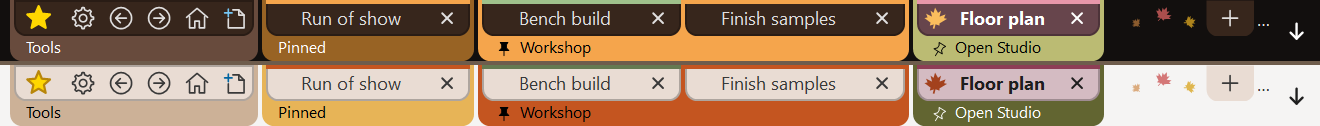
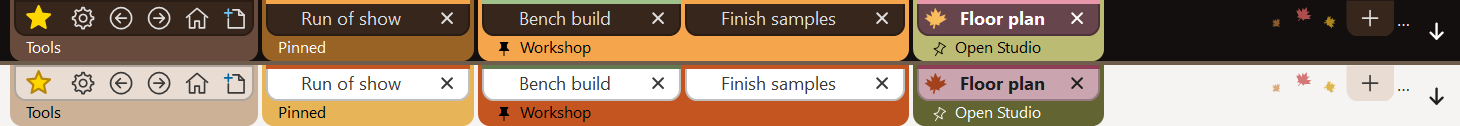
Brighten custom themes on light OneNote surfaces and add Christmas

diff --git a/addins/page-tabs/prototype/TabRenderer.cs b/addins/page-tabs/prototype/TabRenderer.cs
@@ -95,7 +95,7 @@ internal sealed class PageTabButton : ToolStripButton
     {
         var size = base.GetPreferredSize(constrainingSize);
         var palette = Owner == null ? null : Owner.Renderer as TabRenderer;
-        // All Fall tabs budget for the leaf so a change of selection doesn't narrow a title.
+        // Reserve room for the theme icon before selection so titles do not shift the other tabs.
         if (palette != null && palette.UsesCustomColors) size.Width += HostChrome.Px(14, Dpi);
         size.Width = Math.Max(HostChrome.Px(70, Dpi), Math.Min(size.Width, HostChrome.Px(184, Dpi)));
         if (WidthLimit > 0) size.Width = Math.Min(WidthLimit, size.Width);
@@ -243,6 +243,7 @@ internal sealed class TabRenderer : ToolStripProfessionalRenderer
     internal readonly Color Surface, Ink, MutedInk, Tab, Active, Hover, ActiveMarker, ToolsBand, PinnedBand;
     private readonly bool contrast;
     private readonly bool dark;
+    private readonly ThemeSprites sprites;
     internal readonly MoreTabsTheme Theme;
     internal bool UsesCustomColors { get { return Theme != MoreTabsTheme.NotebookColors; } }
     internal bool HighContrast { get { return contrast; } }
@@ -280,6 +281,7 @@ internal sealed class TabRenderer : ToolStripProfessionalRenderer
     internal TabRenderer(Color surface, uint dpi, bool highContrast, bool darkSections, MoreTabsTheme theme)
     {
         Theme = theme;
+        sprites = ThemeSprites.For(theme);
         DarkSections = darkSections;
         Dpi = dpi;
         contrast = highContrast;
@@ -328,6 +330,15 @@ internal sealed class TabRenderer : ToolStripProfessionalRenderer
             PinnedBand = dark ? Color.FromArgb(57, 109, 109) : Color.FromArgb(136, 191, 177);
             ActiveMarker = dark ? Color.PaleTurquoise : Color.Teal;
         }
+        if (theme == MoreTabsTheme.Christmas && !highContrast)
+        {
+            Tab = Blend(Surface, Color.SeaGreen, dark ? 24 : 12);
+            Hover = Blend(Surface, Color.MediumSeaGreen, dark ? 38 : 22);
+            Active = Blend(Surface, Color.SeaGreen, 46);
+            ToolsBand = dark ? Color.FromArgb(36, 84, 66) : Color.FromArgb(172, 217, 191);
+            PinnedBand = dark ? Color.FromArgb(129, 49, 63) : Color.FromArgb(222, 106, 123);
+            ActiveMarker = dark ? Color.Khaki : Color.Goldenrod;
+        }
     }
     private static Color Blend(Color a, Color b, int percent)
     {
@@ -343,6 +354,13 @@ internal sealed class TabRenderer : ToolStripProfessionalRenderer
     private Color Background(ToolStripItem item)
     {
         var page = item as PageTabButton;
+        if (page != null && UsesCustomColors && !dark && !contrast)
+        {
+            var accent = SectionFill(page.SectionColor, page.SectionName);
+            if (page.Checked) return Blend(Color.White, accent, 46);
+            if (page.Pressed || page.Selected) return Blend(Color.White, accent, 15);
+            return Color.White;
+        }
         if (page != null && page.Checked) return MutedSection(page.SectionColor, page.SectionName);
         var button = item as ToolStripButton;
         if (item.Pressed || (button != null && button.Checked)) return Active;
@@ -374,7 +392,7 @@ internal sealed class TabRenderer : ToolStripProfessionalRenderer
     }
     private Color CustomColor(string key)
     {
-        return Theme == MoreTabsTheme.Fall ? FallPalette.Foliage(key, dark) : ThemeSprites.Swatch(Theme, key, dark);
+        return sprites == null ? FallPalette.Foliage(key, dark) : sprites.Swatch(key, dark);
     }
     internal static Color PickSwatch(string key, int[] colors)
     {
@@ -496,9 +514,9 @@ internal sealed class TabRenderer : ToolStripProfessionalRenderer
     }
     internal void PaintThemeArt(Graphics g, int left, int right, int height)
     {
-        if (Theme != MoreTabsTheme.Fall)
+        if (sprites != null)
         {
-            var art = ThemeSprites.Scenery(Theme);
+            var art = sprites.Scenery;
             int width = HostChrome.Px(art.Width, Dpi), h = HostChrome.Px(art.Height, Dpi);
             int gap = HostChrome.Px(3, Dpi);
             if (right - left >= width + 2 * gap && height >= h)
@@ -557,9 +575,9 @@ internal sealed class TabRenderer : ToolStripProfessionalRenderer
                         e.Graphics.FillRectangle(marker, 0, bottom ? h - stripe : 0, w, stripe);
                     if (ShowThemeIcon(page))
                     {
-                        if (Theme != MoreTabsTheme.Fall)
+                        if (sprites != null)
                         {
-                            var icon = ThemeSprites.TabIcon(Theme);
+                            var icon = sprites.Icon;
                             int iconHeight = HostChrome.Px(icon.Height, Dpi);
                             ThemeSprites.Draw(e.Graphics, icon, new Rectangle(HostChrome.Px(3, Dpi),
                                 (page.Height - iconHeight) / 2, HostChrome.Px(icon.Width, Dpi), iconHeight));

diff --git a/addins/page-tabs/prototype/AppearanceTests.cs b/addins/page-tabs/prototype/AppearanceTests.cs
@@ -193,15 +193,18 @@ internal static class AppearanceTests
         var fall = (ToolStripMenuItem)themes.DropDownItems[1];
         var roboCop = (ToolStripMenuItem)themes.DropDownItems[2];
         var alf = (ToolStripMenuItem)themes.DropDownItems[3];
-        var colors = (ToolStripMenuItem)themes.DropDownItems[5];
+        var christmas = (ToolStripMenuItem)themes.DropDownItems[4];
+        var colors = themes.DropDownItems.OfType<ToolStripMenuItem>().Single(i => i.Text == "Enable themes");
         Check(group.Checked && labels.Checked && themes.Text == "Themes" && notebook.Text == "Notebook Colors" && fall.Text == "Fall" && roboCop.Text == "RoboCop" &&
-            notebook.Checked && !fall.Checked && colors.Checked, "The Themes submenu must open with Notebook Colors selected.");
+            christmas.Text == "Christmas" && notebook.Checked && !fall.Checked && colors.Checked,
+            "The Themes submenu must open with Notebook Colors selected.");
         gear.HideDropDown();
         var selected = strip.ActiveTabKey;
         var grouped = strip.Items.OfType<PageTabButton>().ToArray();
         var tools = strip.Host.Captions.Controls.OfType<NotebookTabLabel>().Single(l => l.Text == "Tools");
         colors.PerformClick();
-        Check(!notebook.Enabled && !fall.Enabled && !roboCop.Enabled && !alf.Enabled && !themes.Checked, "Themes off must disable all palette choices.");
+        Check(!notebook.Enabled && !fall.Enabled && !roboCop.Enabled && !alf.Enabled && !christmas.Enabled && !themes.Checked,
+            "Themes off must disable all palette choices.");
         CheckGroupDividers(strip, 2);
         foreach (var surface in new[] { Color.White, Color.FromArgb(18,18,18) })
         {
@@ -263,6 +266,7 @@ internal static class AppearanceTests
         CheckCustomTheme(strip, layout, notebook, fall, colors);
         CheckCustomTheme(strip, layout, notebook, roboCop, colors);
         CheckCustomTheme(strip, layout, notebook, alf, colors);
+        CheckCustomTheme(strip, layout, notebook, christmas, colors);
         strip.Attach(layout.Reserve(), layout);
         Console.WriteLine("PASS shared star and gear tab, settings dependencies, remembered preferences and reclaimed document height with pins.");
     }
@@ -274,7 +278,7 @@ internal static class AppearanceTests
         var theme = (MoreTabsTheme)choice.Tag;
         Check(choice.Checked && !notebook.Checked && ((TabRenderer)strip.Renderer).Theme == theme,
             "Selecting a theme must immediately replace Notebook Colors.");
-        foreach (var surface in new[] { Color.FromArgb(17,12,8), Color.FromArgb(82,79,76), Color.WhiteSmoke, Color.White, SystemColors.Window })
+        foreach (var surface in new[] { Color.FromArgb(17,12,8), Color.FromArgb(82,79,76), Color.FromArgb(232,228,224), Color.WhiteSmoke, Color.White, SystemColors.Window })
         {
             bool contrast = surface.IsSystemColor;
             var chrome = new HostChrome { Dpi = layout.Dpi, Surface = surface, Inset = 25, HighContrast = contrast };
@@ -294,6 +298,13 @@ internal static class AppearanceTests
                 int x = active.Bounds.Left + active.Width / 2;
                 Check(image.GetPixel(x, FlatEdgeY(active, strip.AtBottom, 1)).ToArgb() == color.ToArgb(),
                     "The active page stripe did not paint the selected theme accent.");
+                var inactive = strip.Items.OfType<PageTabButton>().First(t => !t.Checked && !t.Selected && t.Placement == ToolStripItemPlacement.Main);
+                int inset = HostChrome.Px(2, layout.Dpi);
+                var face = image.GetPixel(inactive.Bounds.Left + inactive.Width / 2, FlatEdgeY(inactive, !strip.AtBottom, inset));
+                bool light = !contrast && surface.R >= 200;
+                int expected = light ? Color.White.ToArgb() : palette.Tab.ToArgb();
+                Check(face.ToArgb() == expected && (!light || image.GetPixel(x, FlatEdgeY(active, !strip.AtBottom, inset)).ToArgb() != expected),
+                    theme + " lost its inactive face or the filled selection on " + surface + ".");
             }
             var picker = strip.Items.OfType<PagePicker>().Single();
             picker.ShowDropDown();

diff --git a/addins/page-tabs/prototype/ThemeSprites.cs b/addins/page-tabs/prototype/ThemeSprites.cs
@@ -1,16 +1,37 @@
 using System.Drawing;
 using System.Drawing.Drawing2D;
 
-internal static class ThemeSprites
+internal sealed class ThemeSprites
 {
-    private static readonly int[] light = { 0x3B6284, 0x65778A, 0x337688, 0x686B91, 0x596680, 0x456E9A };
-    private static readonly int[] dark = { 0x82C3E4, 0xA0B3C9, 0x75B6C7, 0xA3A9DC, 0x8A9AB6, 0x86A6D0 };
-    private static readonly int[] melmacLight = { 0xA85F3F, 0x488080, 0x956B89, 0xB17D4D, 0x627F6C, 0x8A697D };
-    private static readonly int[] melmacDark = { 0xDE986D, 0x7BC2B4, 0xCEA3BC, 0xF0BF7A, 0xA3C9AB, 0xD18F91 };
-    private static readonly Bitmap visor = Load("robocop-visor.png"), skyline = Load("robocop-skyline.png");
-    private static readonly Bitmap gordon = Load("alf-gordon.png"), melmac = Load("alf-melmac.png");
-    internal static Bitmap TabIcon(MoreTabsTheme theme) { return theme == MoreTabsTheme.ALF ? gordon : visor; }
-    internal static Bitmap Scenery(MoreTabsTheme theme) { return theme == MoreTabsTheme.ALF ? melmac : skyline; }
+    private static readonly ThemeSprites roboCop = new ThemeSprites("robocop-visor.png", "robocop-skyline.png",
+        new[] { 0x3B6284, 0x65778A, 0x337688, 0x686B91, 0x596680, 0x456E9A },
+        new[] { 0x82C3E4, 0xA0B3C9, 0x75B6C7, 0xA3A9DC, 0x8A9AB6, 0x86A6D0 });
+    private static readonly ThemeSprites alf = new ThemeSprites("alf-gordon.png", "alf-melmac.png",
+        new[] { 0xA85F3F, 0x488080, 0x956B89, 0xB17D4D, 0x627F6C, 0x8A697D },
+        new[] { 0xDE986D, 0x7BC2B4, 0xCEA3BC, 0xF0BF7A, 0xA3C9AB, 0xD18F91 });
+    private static readonly ThemeSprites christmas = new ThemeSprites("christmas-tree.png", "christmas-village.png",
+        new[] { 0x167650, 0xBD2443, 0xD69D27, 0x427F9D, 0x378D73, 0xA72C49 },
+        new[] { 0x55C892, 0xF27786, 0xF6CA6C, 0x88D1EC, 0x77D9C0, 0xEF8799 });
+    private readonly int[] light, dark;
+    internal readonly Bitmap Icon, Scenery;
+
+    private ThemeSprites(string icon, string scenery, int[] light, int[] dark)
+    {
+        Icon = Load(icon);
+        Scenery = Load(scenery);
+        this.light = light;
+        this.dark = dark;
+    }
+    internal static ThemeSprites For(MoreTabsTheme theme)
+    {
+        switch (theme)
+        {
+            case MoreTabsTheme.RoboCop: return roboCop;
+            case MoreTabsTheme.ALF: return alf;
+            case MoreTabsTheme.Christmas: return christmas;
+            default: return null;
+        }
+    }
 
     private static Bitmap Load(string name)
     {
@@ -18,10 +39,9 @@ internal static class ThemeSprites
         using (var source = new Bitmap(stream))
             return new Bitmap(source);
     }
-    internal static Color Swatch(MoreTabsTheme theme, string key, bool darkSurface)
+    internal Color Swatch(string key, bool darkSurface)
     {
-        var colors = theme == MoreTabsTheme.ALF ? (darkSurface ? melmacDark : melmacLight) : (darkSurface ? dark : light);
-        return TabRenderer.PickSwatch(key, colors);
+        return TabRenderer.PickSwatch(key, darkSurface ? dark : light);
     }
     internal static void Draw(Graphics g, Bitmap sprite, Rectangle bounds)
     {

diff --git a/addins/page-tabs/prototype/PageStrip.cs b/addins/page-tabs/prototype/PageStrip.cs
@@ -262,10 +262,6 @@ internal sealed class PageStrip : ToolStrip
     }
     private readonly ToolStripMenuItem themes = new ToolStripMenuItem("Themes");
     private readonly ToolStripMenuItem enableThemes = new ToolStripMenuItem("Enable themes");
-    private readonly ToolStripMenuItem notebookColors = new ToolStripMenuItem("Notebook Colors") { Tag = MoreTabsTheme.NotebookColors };
-    private readonly ToolStripMenuItem fall = new ToolStripMenuItem("Fall") { Tag = MoreTabsTheme.Fall };
-    private readonly ToolStripMenuItem roboCop = new ToolStripMenuItem("RoboCop") { Tag = MoreTabsTheme.RoboCop };
-    private readonly ToolStripMenuItem alf = new ToolStripMenuItem("ALF") { Tag = MoreTabsTheme.ALF };
     private readonly ToolStripMenuItem showLabels = new ToolStripMenuItem("Show notebook labels");
     private readonly ToolStripMenuItem groupTabs = new ToolStripMenuItem("Group tabs by notebook");
     private readonly ToolStripSeparator bookmarkDivider = new ToolStripSeparator();
@@ -320,10 +316,17 @@ internal sealed class PageStrip : ToolStrip
         OverflowButton.AccessibleName = OverflowButton.ToolTipText = "More commands";
         bookmarks.DropDownItems.Add("Bookmark current page");
         bookmarks.DropDownOpening += delegate { Perform(BuildBookmarksMenu); };
-        themes.DropDownItems.AddRange(new ToolStripItem[] { notebookColors, fall, roboCop, alf, new ToolStripSeparator(), enableThemes });
+        foreach (MoreTabsTheme theme in Enum.GetValues(typeof(MoreTabsTheme)))
+        {
+            string label = theme == MoreTabsTheme.NotebookColors ? "Notebook Colors" : theme.ToString();
+            var choice = new ToolStripMenuItem(label) { Tag = theme };
+            choice.Click += delegate { Perform(delegate { ChangeOption(choice); }); };
+            themes.DropDownItems.Add(choice);
+        }
+        themes.DropDownItems.AddRange(new ToolStripItem[] { new ToolStripSeparator(), enableThemes });
         options.DropDownItems.AddRange(new ToolStripItem[] { groupTabs, showLabels, themes });
         options.DropDownOpening += delegate { openHomeAfterPicking = false; Perform(delegate { ApplyState(this.store.Read()); }); };
-        foreach (var item in new[] { groupTabs, showLabels, notebookColors, fall, roboCop, alf, enableThemes })
+        foreach (var item in new[] { groupTabs, showLabels, enableThemes })
         {
             var setting = item;
             setting.Click += delegate { Perform(delegate { ChangeOption(setting); }); };

diff --git a/addins/page-tabs/prototype/SavedSessionTests.cs b/addins/page-tabs/prototype/SavedSessionTests.cs
@@ -57,7 +57,7 @@ internal static class SavedSessionTests
         Directory.CreateDirectory(directory);
         try
         {
-            foreach (string phase in new[] { "save", "restore", "empty", "alf-restart", "overflow", "pin-groups", "reopen-groups" })
+            foreach (string phase in new[] { "save", "restore", "empty", "alf-restart", "christmas-restart", "overflow", "pin-groups", "reopen-groups" })
             {
                 var start = new ProcessStartInfo(Application.ExecutablePath, "sessiontest " + run.ToString("D") + " " + phase) {
                     UseShellExecute = false, CreateNoWindow = true
@@ -361,6 +361,11 @@ internal static class SavedSessionTests
                 case "alf-restart":
                     Check(((TabRenderer)strip.Renderer).Theme == MoreTabsTheme.ALF && strip.TabCount == 0,
                         "The ALF theme did not survive a restart.");
+                    ((ToolStripMenuItem)((ToolStripDropDownButton)strip.Items[1]).DropDownItems[2]).DropDownItems[4].PerformClick();
+                    break;
+                case "christmas-restart":
+                    Check(((TabRenderer)strip.Renderer).Theme == MoreTabsTheme.Christmas && strip.TabCount == 0,
+                        "The Christmas theme did not survive a restart.");
                     break;
                 default: throw new ArgumentException("Unknown session fixture phase.");
             }

diff --git a/addins/page-tabs/prototype/WorkingSet.cs b/addins/page-tabs/prototype/WorkingSet.cs
@@ -63,7 +63,7 @@ internal sealed class SavedTab
     internal SavedTab(string key, SavedPage page, bool pinned = false) { Key = key; Page = page; Pinned = pinned; }
 }
 
-internal enum MoreTabsTheme { NotebookColors, Fall, RoboCop, ALF }
+internal enum MoreTabsTheme { NotebookColors, Fall, RoboCop, ALF, Christmas }
 
 internal sealed class WorkingSet
 {
@@ -255,12 +255,9 @@ internal sealed class SessionStore
                 if (!String.IsNullOrEmpty(id)) state.HiddenTools.Add(id);
             }
             state.ThemesEnabled = (bool?)options.Attribute("coloredLabels") ?? true;
-            switch ((string)options.Attribute("theme"))
-            {
-                case "Fall": state.Theme = MoreTabsTheme.Fall; break;
-                case "RoboCop": state.Theme = MoreTabsTheme.RoboCop; break;
-                case "ALF": state.Theme = MoreTabsTheme.ALF; break;
-            }
+            string theme = (string)options.Attribute("theme");
+            if (theme != null && Enum.IsDefined(typeof(MoreTabsTheme), theme))
+                state.Theme = (MoreTabsTheme)Enum.Parse(typeof(MoreTabsTheme), theme);
             state.ShowNotebookLabels = (bool?)options.Attribute("showLabels") ?? true;
             state.GroupByNotebook = (bool?)options.Attribute("groupByNotebook") ?? true;
             switch ((string)options.Attribute("labelAlignment"))

diff --git a/addins/page-tabs/README.md b/addins/page-tabs/README.md
@@ -79,6 +79,12 @@ Open **Settings → Themes** to choose an appearance. **Notebook Colors** is the
 
 ![ALF in dark and light appearances, with Gordon on the active tab and a saucer beside the page picker](alf-appearance.png)
 
+**Christmas** uses evergreen, cranberry, candlelight gold, and ice blue. A star-topped tree marks the active page. A snowy village with lit windows appears beside **+** when there is room.
+
+![Christmas in dark and light appearances, with a tree on the active tab and a snowy village beside the picker](christmas-appearance.png)
+
+On the light surfaces used by Colorful and White, the four custom themes give inactive page tabs a white face with a colored stripe. Hovering adds a light tint. The selected page has a stronger fill in its section's theme color. Dark appearances keep their darker tab faces, and Windows high contrast uses system colors.
+
 With **Notebook Colors** and grouping enabled, each notebook band matches the cover color of its icon in OneNote's navigation. The band and notebook picker use the same 16 standard light and dark cover colors, verified against OneNote build `16.0.20719.20000`. For example, a notebook stored as `#AB9CB7` appears as `#5B2D90` in a light theme and `#B973D3` in a dark theme. Custom colors use the notebook's stored RGB.
 
 The notebook color spans the caption and the space behind its visible tabs. Each end of the band has the same padding as the gap between two tabs. A thin, darker outline separates each page tab from the band. The notebook name is vertically centered in the caption, with black or white text chosen for contrast. The band is rounded along the edge facing the page, below the tabs when docked at the top and above them when docked at the bottom. Hover over a clipped caption to read its full name.
